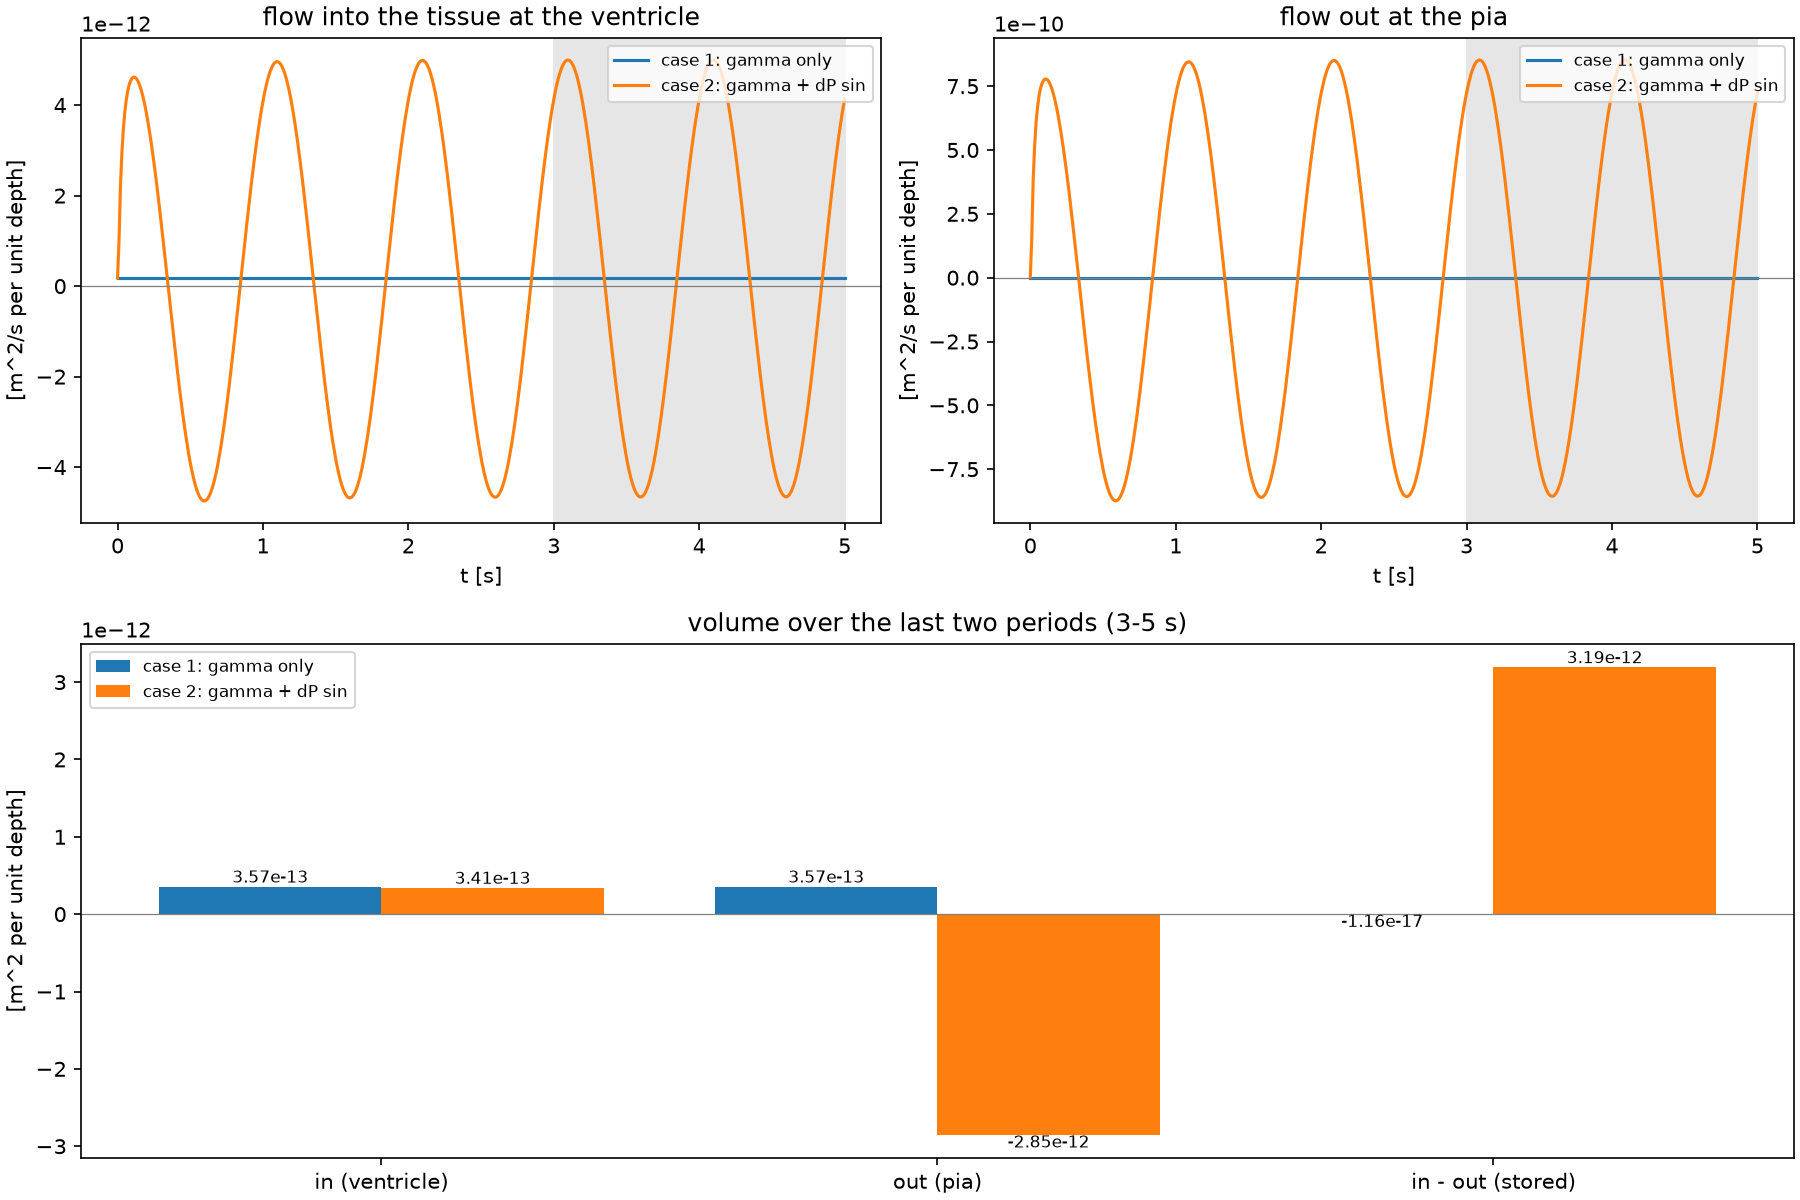
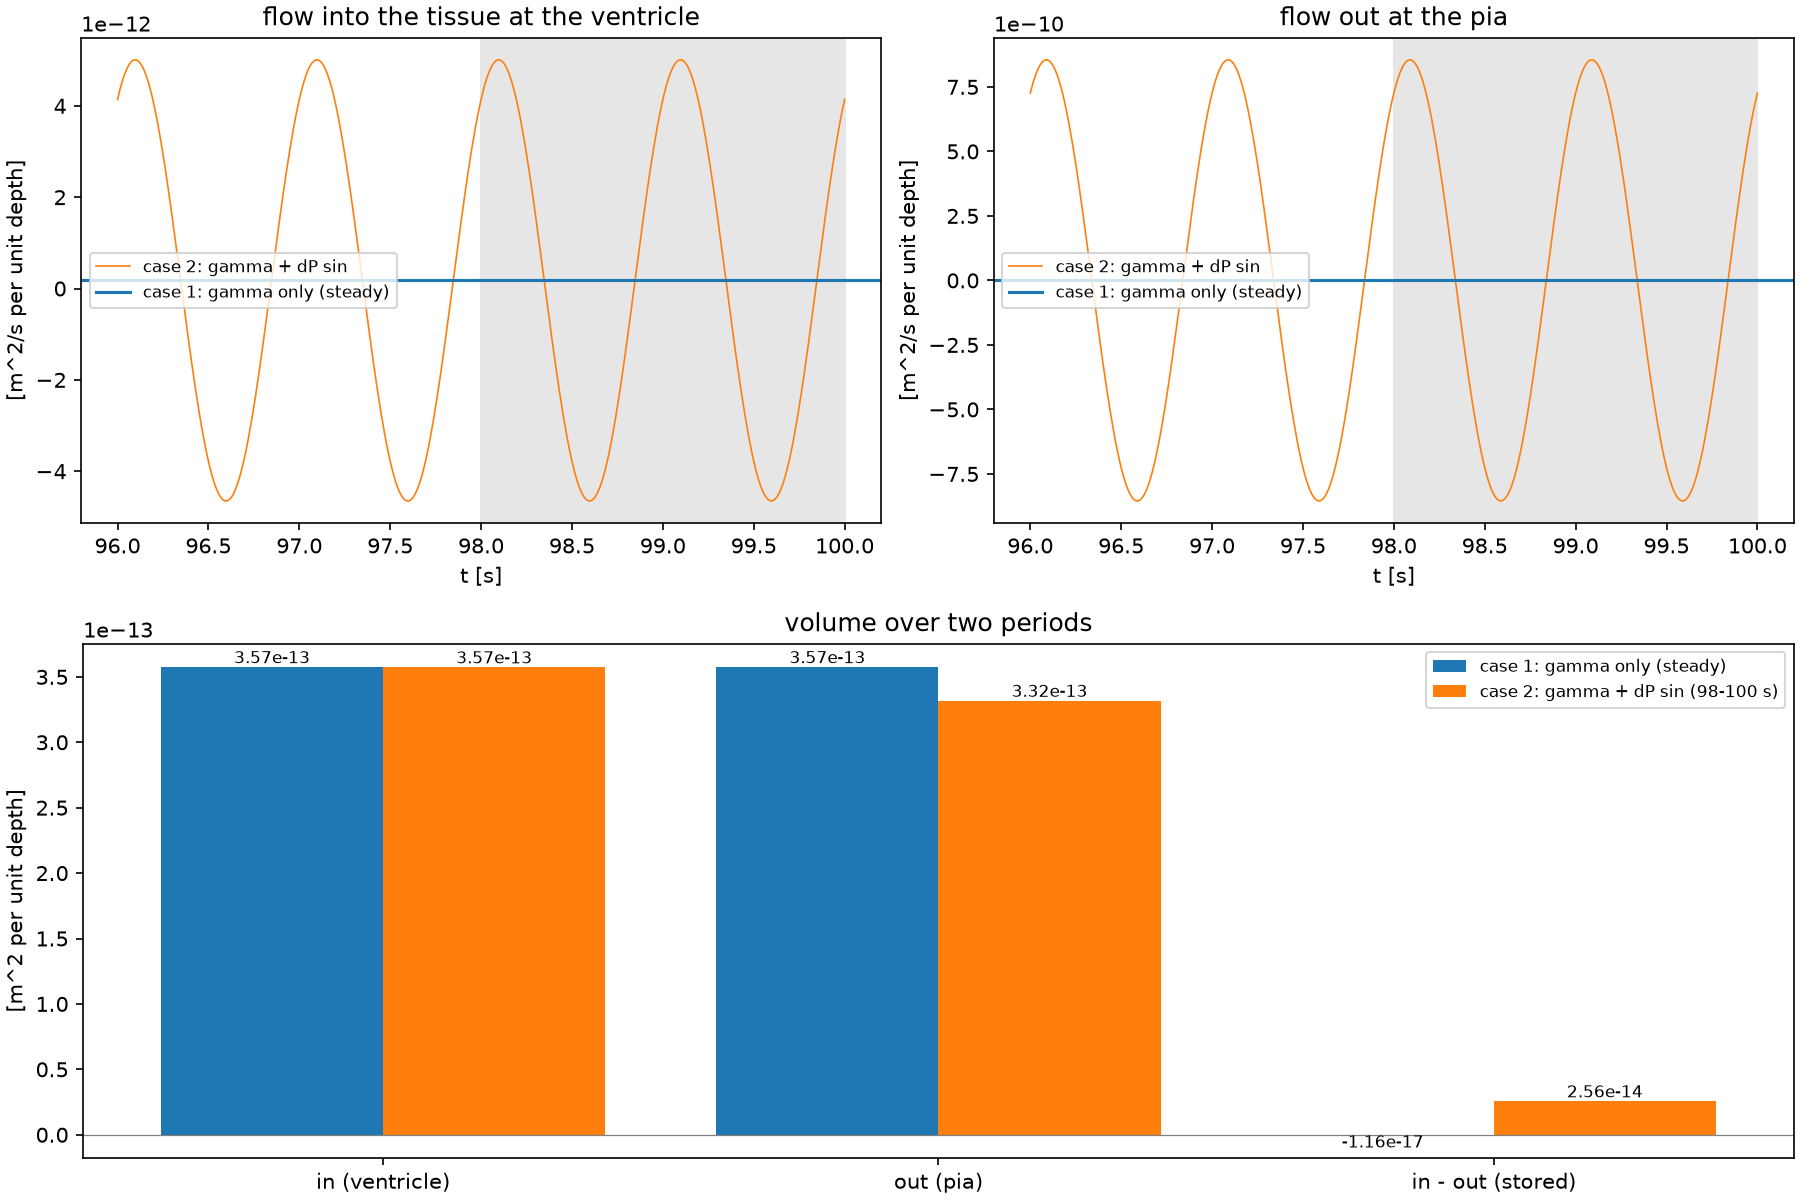
fix: longer simulation to reduce transient effect

diff --git a/studies/transmantle/volumes.py b/studies/transmantle/volumes.py
@@ -1,12 +1,22 @@
 """Fluid through the ventricle and the pia: flow over time and volume over the last two periods.
 
-Reads results/case1.npz and results/case2.npz (see transmantle.yaml). cbflux_<wall> is the
-outward flow per unit depth [m^2/s], averaged over each step; summed times dt over the steps of
-the window it gives the volume per unit depth [m^2]. Inflow at the ventricle is minus its
-outward volume, outflow at the pia its outward volume; their difference is the fluid stored.
+Case 1 (gamma only) is steady, so any window gives its steady volume. Case 2 (gamma + dP sin) is
+read from a long run started from the steady state of gamma, and its volumes are taken over its
+last two periods: the start-up residual of the oscillation decays only as k^-3/2 (periods.py),
+so the later the window, the closer case 2 comes to case 1.
 
-Figure: figures/volumes.png. Top: the flow through each wall against t, the window shaded.
-Bottom: the volumes over the window, per case.
+    case 1:   results/case1.npz      (transmantle.yaml, see its header)
+    case 2:   results/<CASE2>.npz    a long run, e.g. 20 or 100 periods:
+        amphix run transmantle.yaml --set time.T=100 \
+            --set 'initial={from: results/steady_fields.npz}' --name case2_100
+
+cbflux_<wall> is the outward flow per unit depth [m^2/s], averaged over each step; summed times dt
+over the steps of the window it gives the volume per unit depth [m^2]. Inflow at the ventricle is
+minus its outward volume, outflow at the pia its outward volume; their difference is the fluid
+stored.
+
+Figure: figures/volumes.png. Top: the flow through each wall over the last four periods (case 1
+as its steady value), the window shaded. Bottom: the volumes over two periods, per case.
 """
 
 from pathlib import Path
@@ -16,8 +26,9 @@ import numpy as np
 
 import amphix
 
-RUNS = {"case1": "case 1: gamma only", "case2": "case 2: gamma + dP sin"}
-T0, T1 = 3.0, 5.0  # the last two periods [s]
+CASE2 = "case2_100"  # the long run of case 2 (case2_20 or case2_100)
+SPAN = 2.0  # the window: the last two periods [s]
+SHOWN = 4.0  # top plots: the last four periods [s]
 
 
 def flows(r):
@@ -26,24 +37,28 @@ def flows(r):
 
 
 def volumes(r):
-    """Return (inflow at the ventricle, outflow at the pia) over (T0, T1] [m^2]."""
+    """Return (inflow at the ventricle, outflow at the pia) over the last SPAN seconds [m^2]."""
     t, q_in, q_out = flows(r)
     dt = t[-1] - t[-2]
-    w = (t > T0 + 1e-9) & (t < T1 + 1e-9)  # steps ending in (T0, T1]
+    w = t > t[-1] - SPAN + 1e-9  # the steps ending in the window
     return q_in[w].sum() * dt, q_out[w].sum() * dt
 
 
 if __name__ == "__main__":
     HERE = Path(__file__).parent
     (HERE / "figures").mkdir(exist_ok=True)
-    res = {k: amphix.load_results(HERE / "results" / f"{k}.npz") for k in RUNS}
+    r1 = amphix.load_results(HERE / "results" / "case1.npz")
+    r2 = amphix.load_results(HERE / "results" / f"{CASE2}.npz")
+    t_end = r2["t"][-1]
+    runs = {
+        "case 1: gamma only (steady)": volumes(r1),
+        f"case 2: gamma + dP sin ({t_end - SPAN:g}-{t_end:g} s)": volumes(r2),
+    }
 
-    print(f"volumes over ({T0:g}, {T1:g}] s, per unit depth [m^2]")
-    print(f"{'':>26} {'in (ventricle)':>15} {'out (pia)':>12} {'in - out':>12}")
-    vols = {}
-    for k, label in RUNS.items():
-        v_in, v_out = vols[k] = volumes(res[k])
-        print(f"{label:>26} {v_in:15.3e} {v_out:12.3e} {v_in - v_out:12.3e}")
+    print("volumes over two periods, per unit depth [m^2]")
+    print(f"{'':>36} {'in (ventricle)':>15} {'out (pia)':>12} {'in - out':>12}")
+    for label, (v_in, v_out) in runs.items():
+        print(f"{label:>36} {v_in:15.3e} {v_out:12.3e} {v_in - v_out:12.3e}")
 
     fig = plt.figure(figsize=(12, 8), layout="constrained")
     top = fig.subfigures(2, 1, height_ratios=[1, 1])
@@ -52,28 +67,25 @@ if __name__ == "__main__":
         (ax_v, 1, "into the tissue at the ventricle"),
         (ax_p, 2, "out at the pia"),
     ):
-        for k, label in RUNS.items():
-            f = flows(res[k])
-            ax.plot(f[0], f[i], label=label)
-        ax.axvspan(T0, T1, color="0.9", zorder=0)
-        ax.axhline(0, color="0.5", lw=0.6)
+        f2 = flows(r2)
+        last = f2[0] > t_end - SHOWN - 1e-9
+        ax.plot(f2[0][last], f2[i][last], color="C1", lw=0.8, label="case 2: gamma + dP sin")
+        ax.axhline(flows(r1)[i][-1], color="C0", lw=1.5, label="case 1: gamma only (steady)")
+        ax.axvspan(t_end - SPAN, t_end, color="0.9", zorder=0)
         ax.set(title=f"flow {title}", xlabel="t [s]", ylabel="[m^2/s per unit depth]")
         ax.legend(fontsize=8)
 
     ax = top[1].subplots()
     bars = ["in (ventricle)", "out (pia)", "in - out (stored)"]
     x = np.arange(len(bars))
-    width = 0.8 / len(RUNS)
-    for j, (k, label) in enumerate(RUNS.items()):
-        v_in, v_out = vols[k]
+    width = 0.8 / len(runs)
+    for j, (label, (v_in, v_out)) in enumerate(runs.items()):
         b = ax.bar(
-            x + (j - (len(RUNS) - 1) / 2) * width, [v_in, v_out, v_in - v_out], width, label=label
+            x + (j - (len(runs) - 1) / 2) * width, [v_in, v_out, v_in - v_out], width, label=label
         )
         ax.bar_label(b, fmt="%.2e", fontsize=8)
     ax.axhline(0, color="0.5", lw=0.6)
     ax.set_xticks(x, bars)
-    ax.set(
-        title=f"volume over the last two periods ({T0:g}-{T1:g} s)", ylabel="[m^2 per unit depth]"
-    )
+    ax.set(title="volume over two periods", ylabel="[m^2 per unit depth]")
     ax.legend(fontsize=8)
     fig.savefig(HERE / "figures" / "volumes.png", dpi=150)
